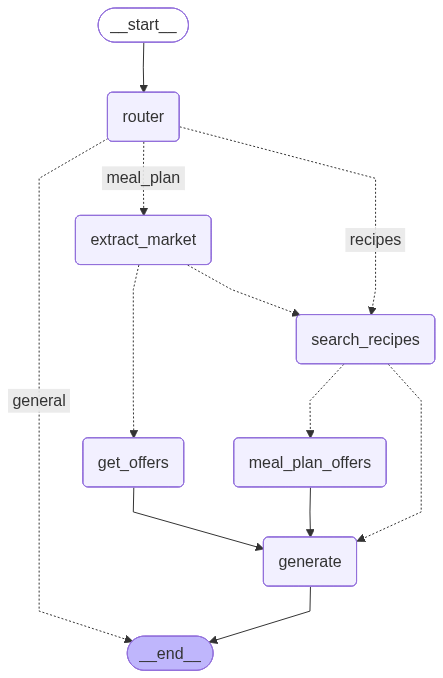
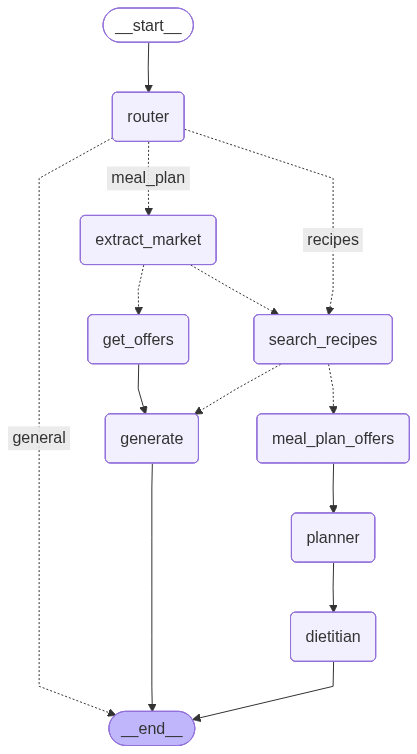
feat: major agent refactor
- Add LangGraph agent replacing linear chain

- Add planner/dietitian two-stage meal plan pipeline

- Add automatic supermarket extraction from chat

- Remove chat.py, MARKETS/LAT/LNG env vars

diff --git a/src/agent.py b/src/agent.py
@@ -7,6 +7,7 @@ from src.retriever import load_retriever
 from src.offers import load_or_fetch_offers
 import operator
 import streamlit as st
+import random
 
 # ── State ────────────────────────────────────────────────────────────────────
 
@@ -27,13 +28,23 @@ def build_agent():
     # ── LLM & Retriever ──────────────────────────────────────────────────────────
     llm_generate = ChatGroq(
         model="llama-3.3-70b-versatile",
-        max_tokens=8000,
+        max_tokens=2000,
         temperature=0.7
     )
     llm_router = ChatGroq(
         model="llama-3.1-8b-instant", 
         max_tokens=10,  # braucht nur ein Wort zurückgeben
         temperature=0.0  # kein Zufall beim Routing
+    )
+    llm_planner = ChatGroq(
+    model="llama-3.1-8b-instant",  # Planner braucht kein 70B
+    max_tokens=500,
+    temperature=0.7
+    )
+    llm_dietitian = ChatGroq(
+        model="llama-3.3-70b-versatile",  # Nur Dietitian braucht 70B
+        max_tokens=3000,
+        temperature=0.3
     )
     retriever = load_retriever()
 
@@ -104,30 +115,23 @@ def build_agent():
         offers_section = state.get("offers_section", "")
         
         prompt = ChatPromptTemplate.from_template("""
-            You are ConfabChef (CC), a friendly AI cooking assistant 
-            specializing in international cuisine.
+        You are ConfabChef (CC), a friendly AI cooking assistant 
+        specializing in international cuisine.
 
-            Use the following recipes from your knowledge base:
-            {context}
+        Use the following recipes from your knowledge base:
+        {context}
 
-            {offers_section}
+        {offers_section}
 
-            User preferences (if mentioned): apply dietary restrictions, 
-            calorie goals, and allergies from the conversation.
+        Apply dietary restrictions, calorie goals, and allergies if mentioned.
 
-            When creating meal plans:
-            - Write a table for the overview
-            - Structure by day with Breakfast (25%), Lunch (40%), Dinner (35%)
-            - Include ingredients with exact amounts
-            - Include macros per serving (Calories, Protein, Carbs, Fat, Fiber)
-            - Include step-by-step instructions
-            - Add tips and substitutions
-            - End with a shopping list sorted by category
+        For recipes: include ingredients with amounts and step-by-step instructions.
+        For offers/suggestions: give a brief overview with 2-3 recipe ideas.
 
-            Answer in the same language as the user.
+        Answer in the same language as the user.
 
-            User question: {question}
-            """)
+        User question: {question}
+        """)
         
         messages = prompt.format_messages(
             context=context,
@@ -138,24 +142,34 @@ def build_agent():
         return {"messages": [AIMessage(content=str(response.content))]}
     
     def planner_node(state: AgentState) -> Dict[str, Any]:
-        """Erstellt kreativen Meal Plan ohne Einschränkungen"""
         question = str(state["messages"][-1].content)
         context = state.get("context", "")
         
+        # Zufällige Küchen für mehr Abwechslung
+        cuisines = ["Italian", "Japanese", "Mexican", "Indian", "Thai", 
+                    "Greek", "Korean", "Lebanese", "Peruvian", "Ethiopian"]
+        random.shuffle(cuisines)
+        cuisine_suggestion = ", ".join(cuisines[:4])
+        
         prompt = ChatPromptTemplate.from_template("""
-        You are a creative meal planner. Create a diverse weekly meal plan.
+        Create ONLY dish names for a weekly meal plan.
+        No ingredients, no instructions, no macros. Just names.
         
-        Use these recipes as inspiration:
-        {context}
+        Try to incorporate these cuisines for variety: {cuisines}
+        Use these recipes as inspiration: {context}
         
-        Focus on variety and creativity. Don't worry about restrictions yet.
-        Create a rough plan with dish names and main ingredients only.
+        Format: Day — Breakfast / Lunch / Dinner
+        Maximum 100 words total.
         
         User request: {question}
         """)
         
-        messages = prompt.format_messages(context=context, question=question)
-        response = llm_generate.invoke(messages)
+        messages = prompt.format_messages(
+            context=context,
+            question=question,
+            cuisines=cuisine_suggestion
+        )
+        response = llm_planner.invoke(messages)
         return {"draft_plan": str(response.content), "messages": []}
 
     def dietitian_node(state: AgentState) -> Dict[str, Any]:
@@ -180,6 +194,17 @@ def build_agent():
         4. Keep the variety and creativity of the original plan
         5. Add exact amounts, macros, instructions and shopping list
         
+        Present the final plan as:
+        1. A markdown overview table: | Day | Breakfast | Lunch | Dinner |
+        2. A shopping list sorted by category with supermarket where available
+        
+        Do NOT include:
+        - Individual recipes or cooking instructions
+        - Detailed macros per meal
+        - Notes or disclaimers
+
+        The user can ask for specific recipes or macros separately.
+
         User request with restrictions: {question}
         """)
         
@@ -188,7 +213,7 @@ def build_agent():
             offers_section=offers_section,
             question=question
         )
-        response = llm_generate.invoke(messages)
+        response = llm_dietitian.invoke(messages)
         return {"messages": [AIMessage(content=str(response.content))]}
 
     def after_recipes(state: AgentState) -> str:

diff --git a/app.py b/app.py
@@ -5,6 +5,7 @@ import re
 from src.ingest import load_csv_recipes, load_txt_recipes, split_documents, build_faiss_index, FAISS_INDEX
 from src.agent import build_agent
 import warnings
+from src.callbacks import StreamlitProgressHandler
 import logging
 warnings.filterwarnings("ignore")
 logging.getLogger("transformers").setLevel(logging.ERROR)
@@ -35,7 +36,7 @@ if not FAISS_INDEX.exists():
         status.update(label="✅ Recipe database ready!", state="complete")
 
 if "agent" not in st.session_state:
-    with st.status("🍳 Preparing the kitchen...", expanded=True) as status:
+    with st.status("🍳 Preparing the kitchen...", expanded=False) as status:
         st.write("Loading recipe database...")
         st.write("Initializing AI model...")
         st.session_state.agent = build_agent()
@@ -72,14 +73,17 @@ if prompt := st.chat_input("Ask me for a recipe or meal plan..."):
         response = ""
         try:
             with st.status("🍳 Cooking...", expanded=True) as status:
-                st.write("🔍 Analyzing your request...")
-                result = st.session_state.agent.invoke({
-                    "messages": [HumanMessage(content=prompt)],
-                    "context": "",
-                    "offers_section": "",
-                    "route": "",
-                    "draft_plan": ""
-                })
+                handler = StreamlitProgressHandler(status)
+                result = st.session_state.agent.invoke(
+                    {
+                        "messages": [HumanMessage(content=prompt)],
+                        "context": "",
+                        "offers_section": "",
+                        "route": "",
+                        "draft_plan": ""
+                    },
+                    config={"callbacks": [handler]}
+                )
                 if st.session_state.get("offers"):
                     markets = ", ".join(st.session_state.offers.keys())
                     st.write(f"🛒 Used deals from: {markets}")

diff --git a/src/callbacks.py b/src/callbacks.py
@@ -1,0 +1,22 @@
+from langchain_core.callbacks import BaseCallbackHandler
+from typing import Any, List
+from langchain_core.messages import BaseMessage
+
+class StreamlitProgressHandler(BaseCallbackHandler):
+    def __init__(self, status):
+        self.status = status
+        self._call_count = 0
+    
+    def on_chat_model_start(self, serialized: dict, messages: List[List[BaseMessage]], **kwargs: Any) -> None:
+        if serialized is None:
+            return
+        
+        self._call_count += 1
+        
+        # Basierend auf wievielter LLM Call
+        if self._call_count == 1:
+            self.status.write("🔍 Analyzing your request...")
+        elif self._call_count == 2:
+            self.status.write("📅 Creating meal plan draft...")
+        elif self._call_count == 3:
+            self.status.write("🥗 Applying dietary restrictions...")

diff --git a/src/offers.py b/src/offers.py
@@ -5,14 +5,15 @@ from langchain_core.messages import HumanMessage
 from langchain_groq import ChatGroq
 import json
 import re
-
-llm_filter = ChatGroq(
-    model="meta-llama/llama-4-scout-17b-16e-instruct",
-    max_tokens=8000,
-    temperature=0.7
-)
+from dotenv import load_dotenv
+load_dotenv()
 
 def call_filter_ai(prompt: str) -> str:
+    llm_filter = ChatGroq(
+        model="meta-llama/llama-4-scout-17b-16e-instruct",
+        max_tokens=8000,
+        temperature=0.7
+    )
     response = llm_filter.invoke([HumanMessage(content=prompt)])
     return str(response.content)
 

diff --git a/README.md b/README.md
@@ -28,8 +28,9 @@ The app uses a LangGraph agent that decides how to handle each request:
 | Component | Technology |
 | --- | --- |
 | Agent | LangGraph |
-| LLM (Generate) | Groq (LLaMA 3.3 70B) |
-| LLM (Router) | Groq (LLaMA 3.1 8B) |
+| LLM (Routing) | Groq (LLaMA 3.1 8B) |
+| LLM (Planning) | Groq (LLaMA 3.1 8B) |
+| LLM (Dietitian & Generate) | Groq (LLaMA 3.3 70B) |
 | Orchestration | LangChain |
 | Vector Store | FAISS |
 | Embeddings | ibm-granite/granite-embedding-278m-multilingual |
@@ -43,6 +44,7 @@ The app uses a LangGraph agent that decides how to handle each request:
 ConfabChef/
 ├── src/
 │   ├── agent.py        # LangGraph agent with routing logic
+│   ├── callbacks.py    # Streamlit progress handler for live status updates
 │   ├── ingest.py       # Load recipes & build FAISS index
 │   ├── retriever.py    # Load FAISS index & retrieve relevant recipes
 │   ├── offers.py       # Supermarket deal fetching & caching
@@ -92,7 +94,10 @@ pip install -r requirements.txt
 
 #### 3. Set up `.env`
 
-GROQ_API_KEY=your_key_here\
+``` text
+GROQ_API_KEY=your_key_here
+```
+
 That's it! No location or market configuration needed. kaufda.de detects your location automatically via IP geolocation.
 
 #### 4. Run the app
@@ -125,22 +130,24 @@ Responds in the same language as the user thanks to the multilingual embedding m
 
 ## Adding Your Own Recipes
 
-Add `.txt` files to `data/recipes/` in this format:\
-Name: Your Recipe Name\
-Cuisine: Chinese\
-Servings: 2\
-Calories: 300\
+Add `.txt` files to `data/recipes/` in this format:
+``` text
+Name: Your Recipe Name
+Cuisine: Chinese
+Servings: 2
+Calories: 300
 Ingredients:
 
-ingredient 1\
+ingredient 1
 ingredient 2
 
 Instructions:
 
-Step one\
+Step one
 Step two
 
 Tags: tag1, tag2
+```
 
 Then delete `data/faiss_index` and restart the app or run `python src/ingest.py`.
 
